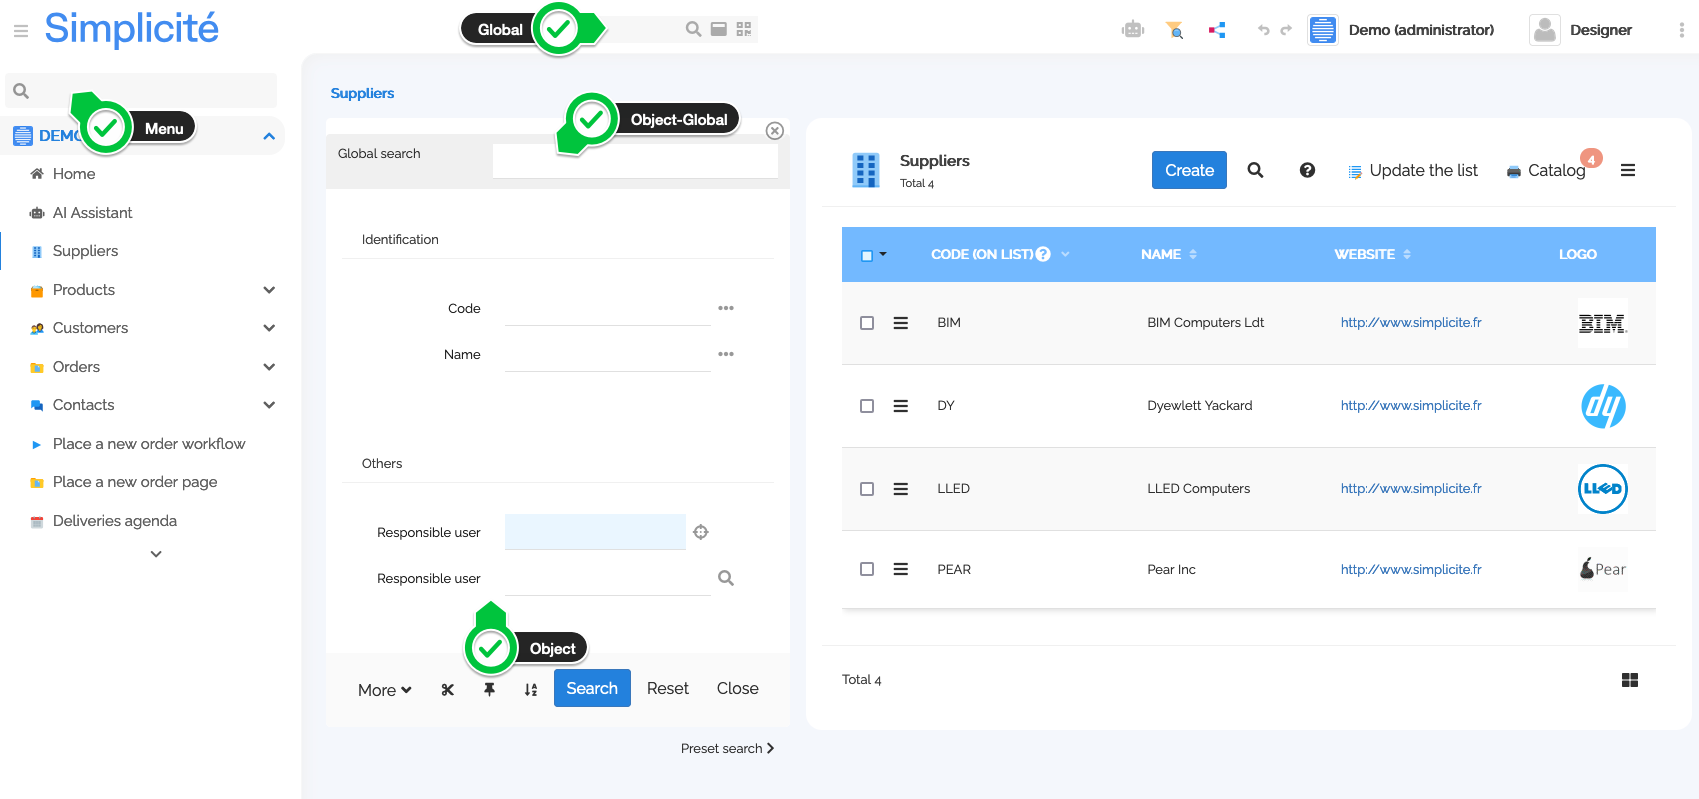
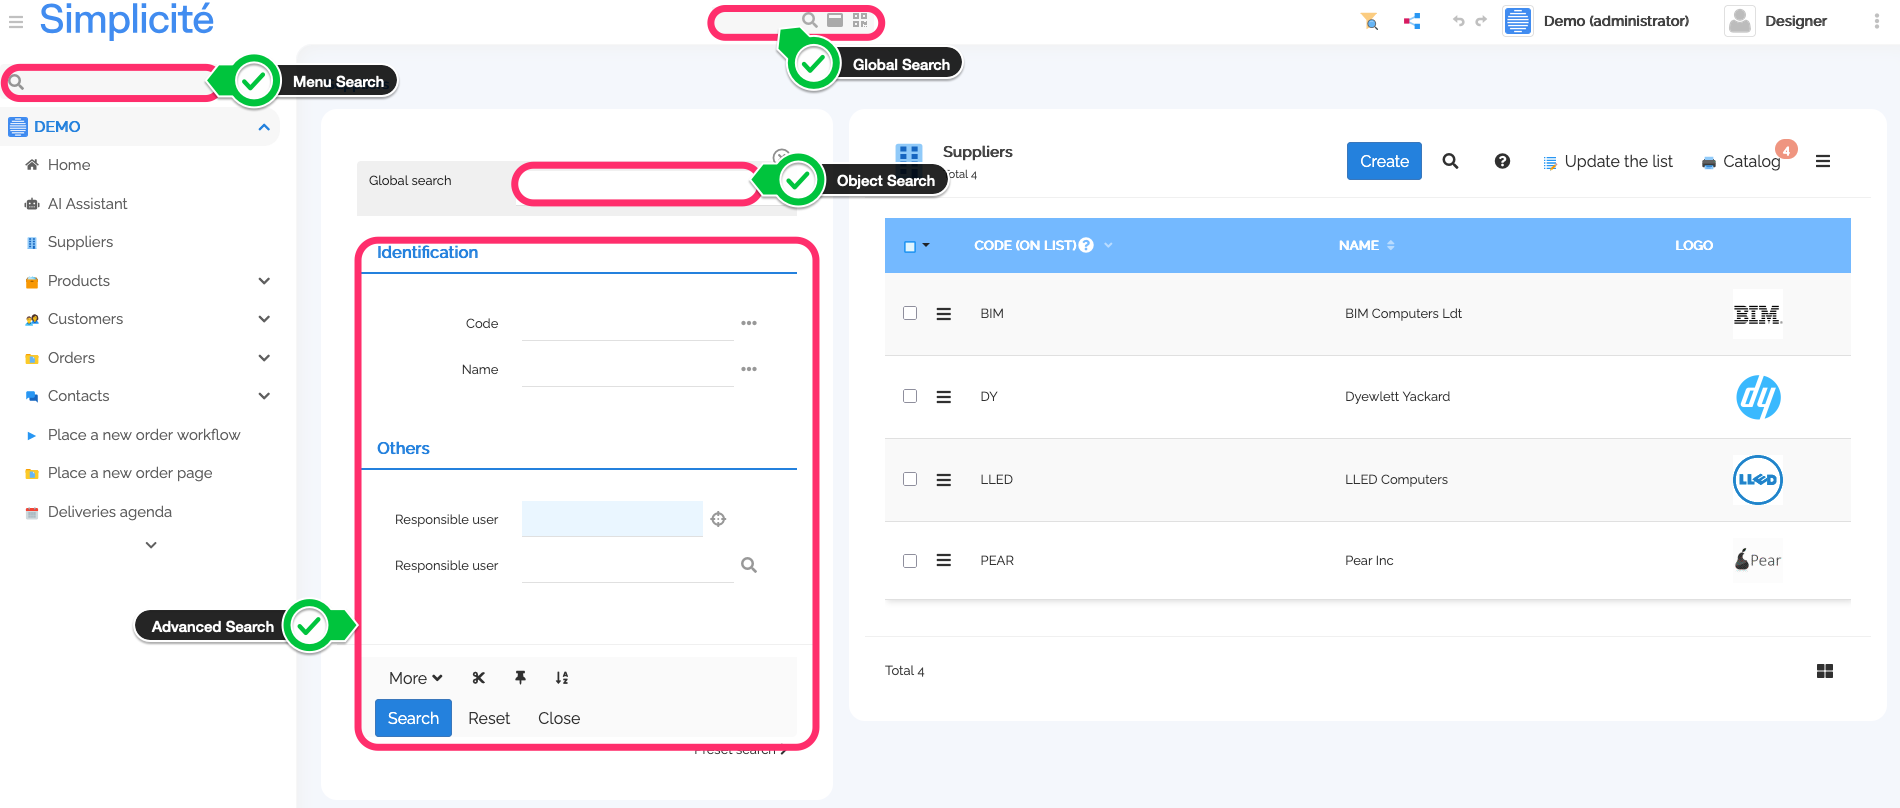
improved search semantics

diff --git a/content/CTG_50_docs/CTG_20_core/LSN_230_search/search.md b/content/CTG_50_docs/CTG_20_core/LSN_230_search/search.md
@@ -4,17 +4,17 @@ Search
 ## Searching with the UI
 
 There are differend kind of searches in Simplicité : 
-- the Global Search
-- the Object Search
-- the Object-Global Search
-- the Domain Search
-- the Form Search
+- Global Search
+- Advanced Search
+- Object Search
+- Domain Search
+- Form Search
 
 ![alt](search-types.png)
 
 ### Global Search
 
-The global search (aka fulltext search) works by searching the **index** for the string the user types in the header search bar. Needless to say, only objects that the user has access to are displayed.
+The global search (aka fulltext search, or indexed search) works by searching the **index** for the string the user types in the header search bar. Needless to say, only objects that the user has access to are displayed.
 
 For the objects to appear in the search:
 1. The object must be **indexable** (property set on the Business Object configuration options)
@@ -34,9 +34,9 @@ The **Lucene index** relies on the lucene engine to index objects and retrieve r
 
 <!-- TODO global search results https://community.simplicite.io/t/recherche-limitee-a-un-domaine/1885/7 -->
 
-### Object Search
+### Advanced Search
 
-The object search is a by-column search on an object. 
+The advanced search is a by-column search on an object. 
 
 The be activated, the object needs to have at least one searchable field (*be careful: indexable->global vs searchable->object*).
 
@@ -49,9 +49,9 @@ The detached and pinned modes have a richer UI with components to help the user 
 
 Basically, each filter is translated to a SQL `WHERE` clause, allowing filtering on the table.
 
-### Object-Global Search
+### Object Search
 
-The Object-Global Search is just the Global Search functionnality (using the same index and specificities) but applied to one object only.
+The Object Search is just the Global Search functionnality (using the same index and specificities) but applied to one object only.
 
 ### Menu Search
 
